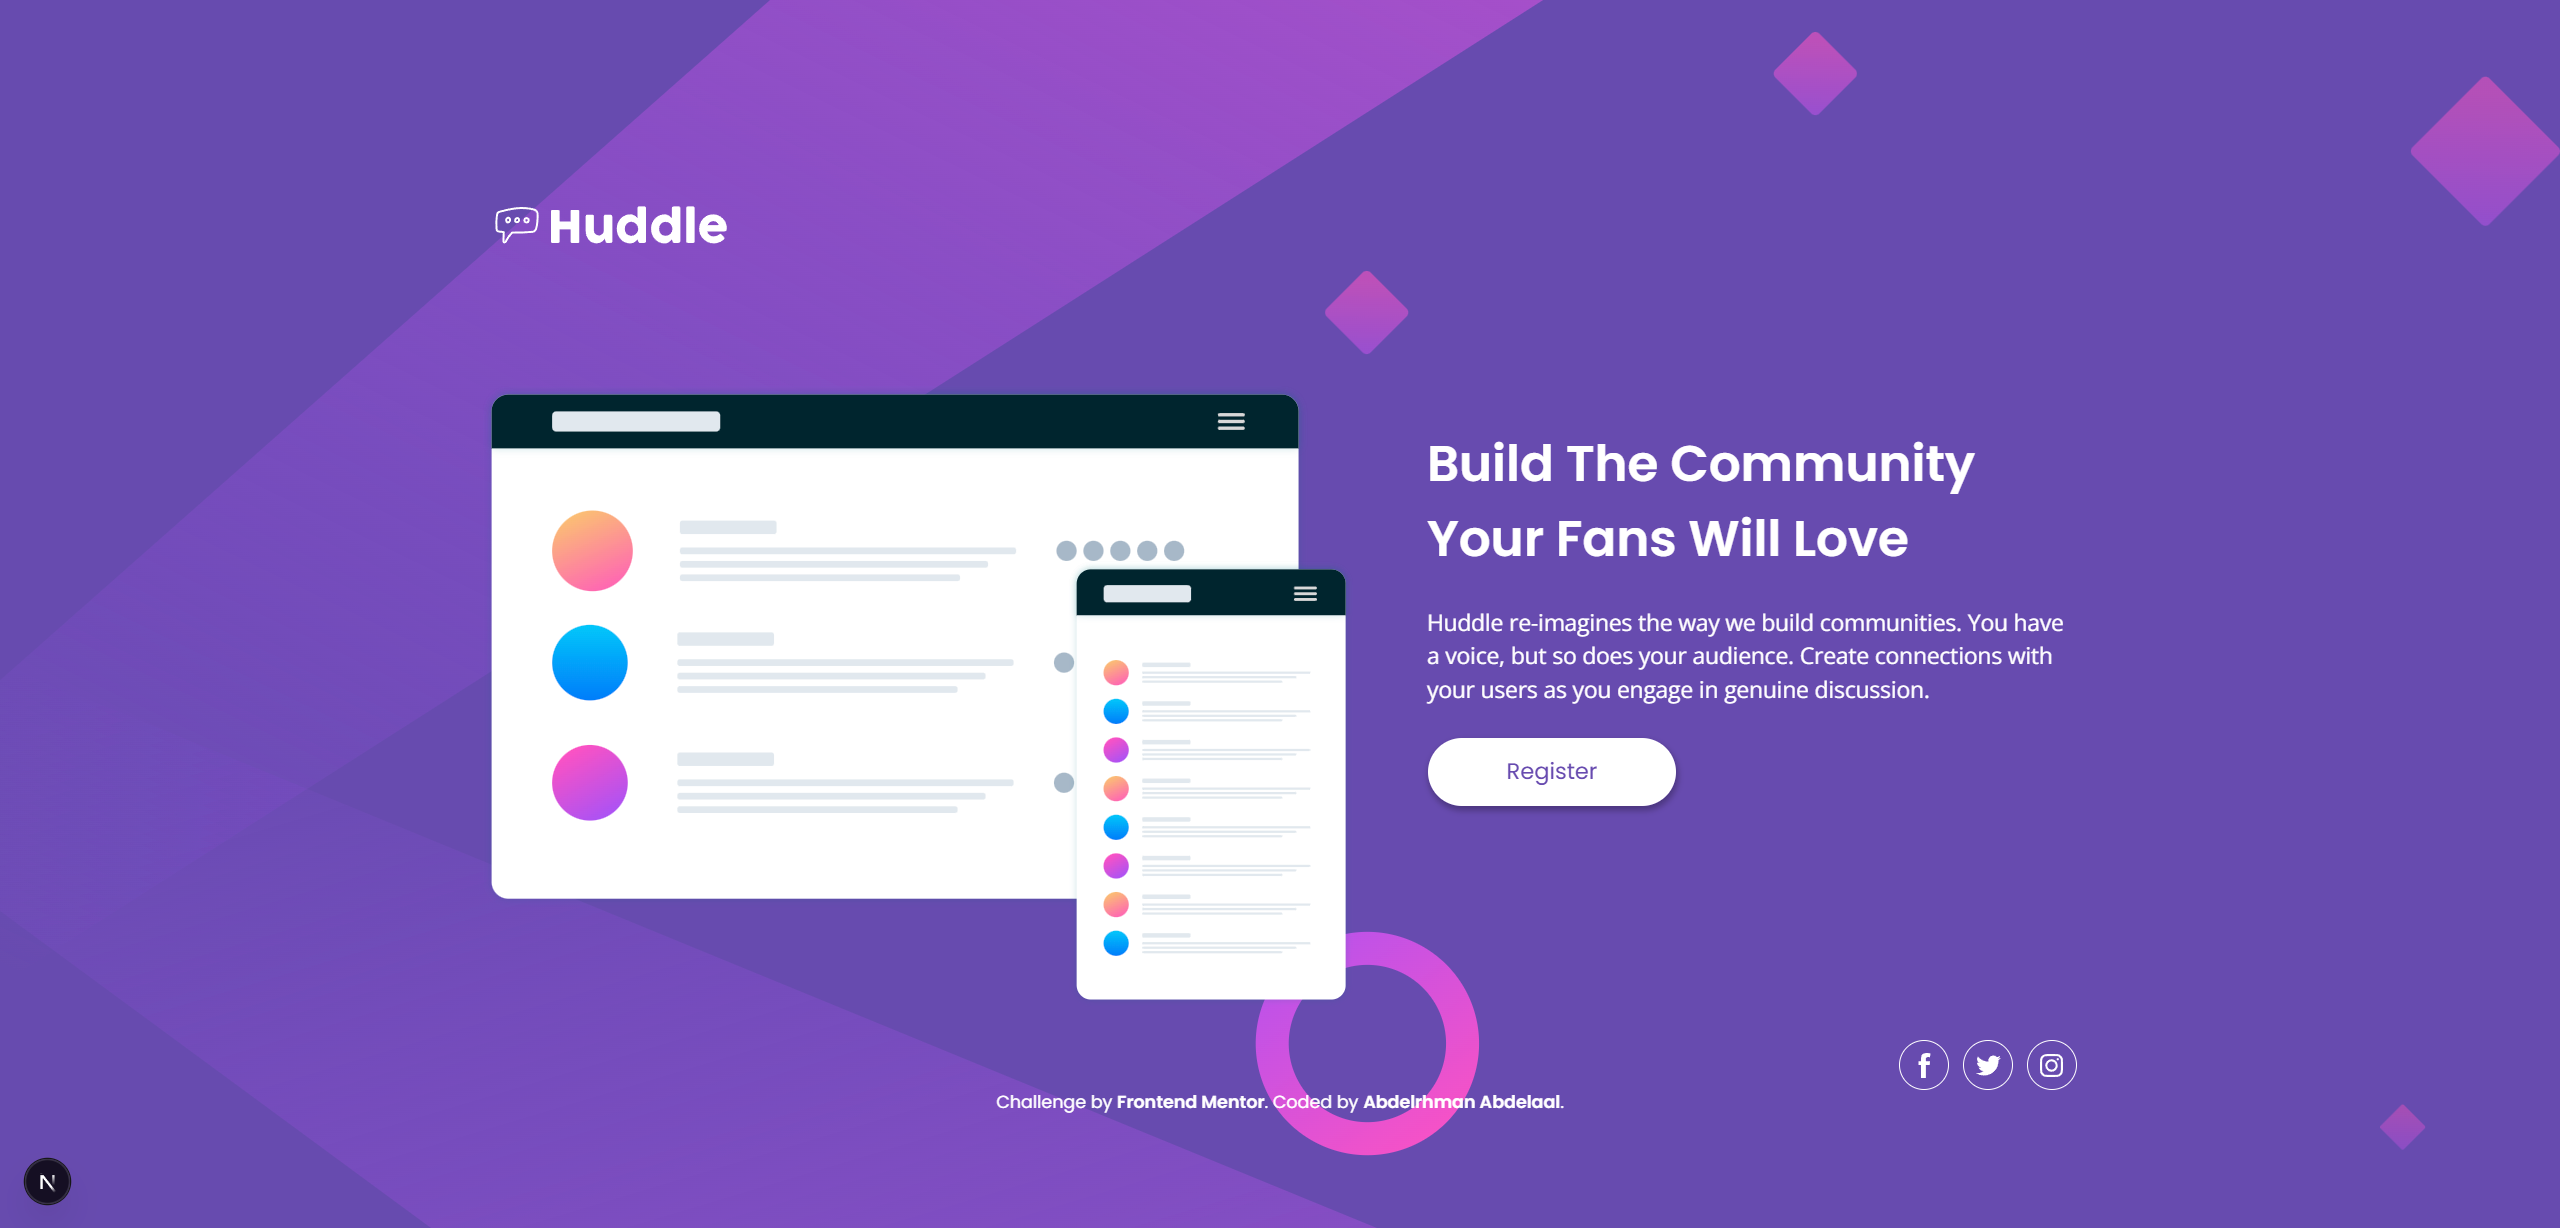
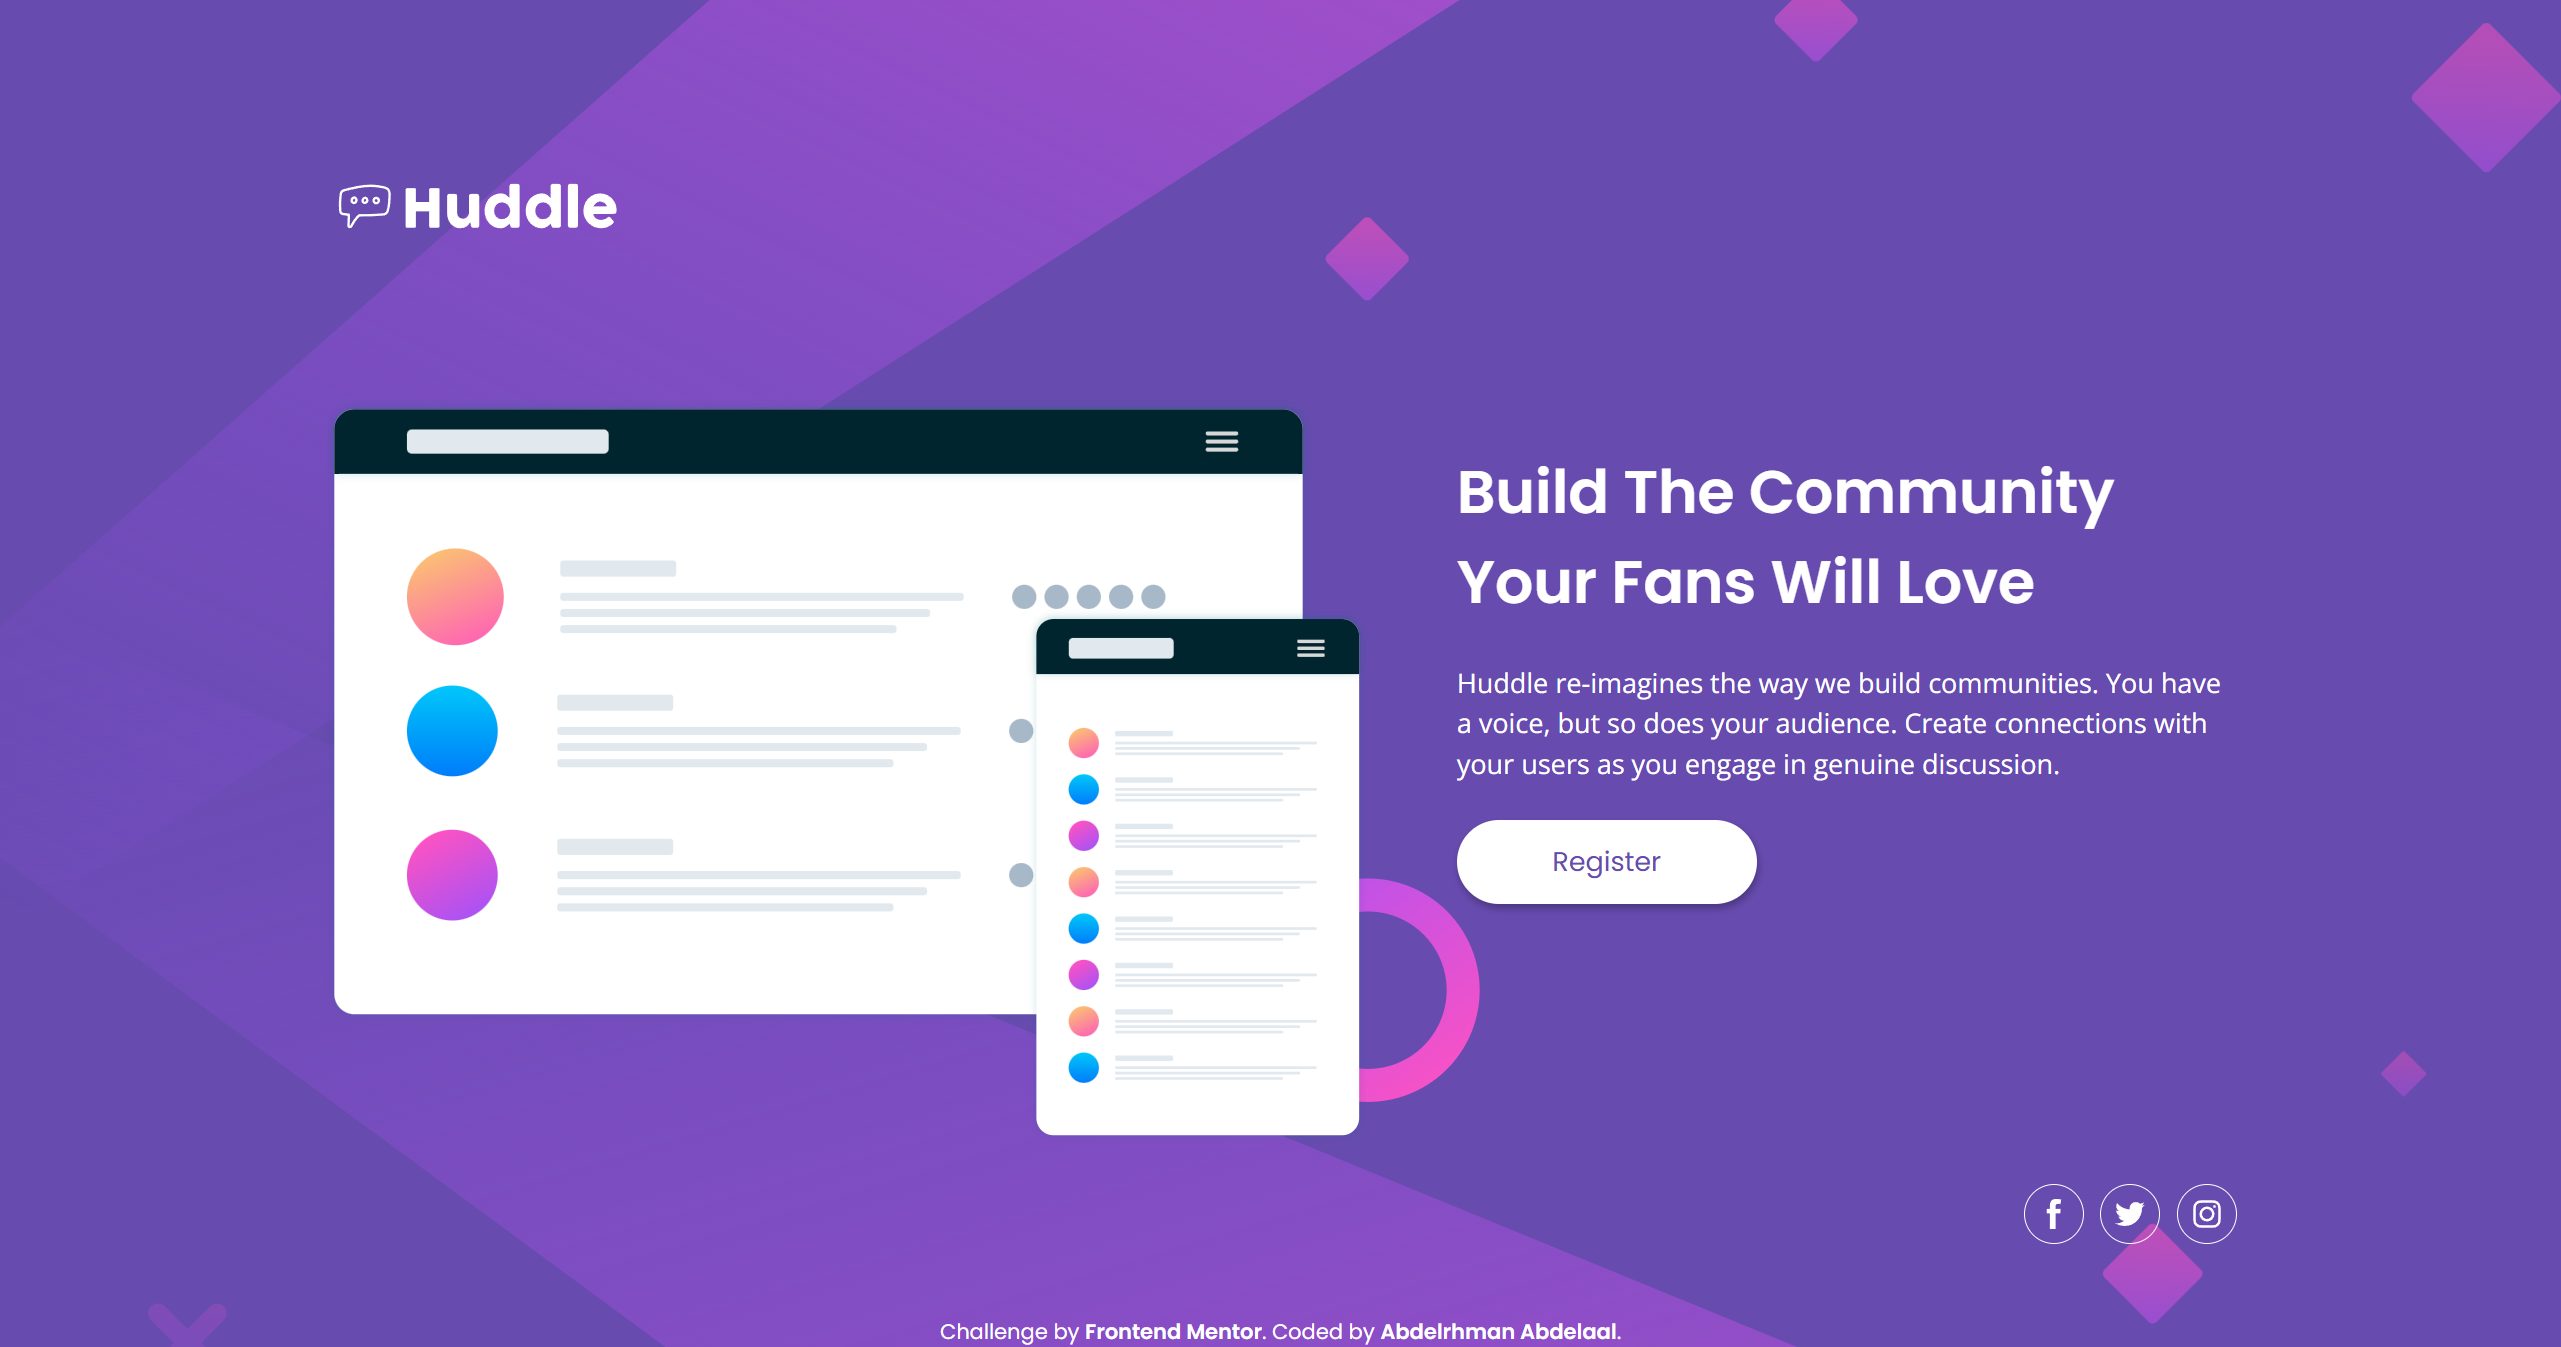
Update README and screenshot for live site URL change
- Updated the Live Site URL in README.md to reflect the new Netlify link.
- Modified the screenshot.png file to include the latest design changes.

diff --git a/README.md b/README.md
@@ -23,7 +23,7 @@ This is a solution to the [Huddle Landing Page with a Single Introductory Sectio
 ### Links
 
 - Solution URL: [GitHub](https://github.com/MrBlackvanta/huddle-landing-page-with-a-single-introductory-section)
-- Live Site URL: [Netlify](https://huddle-landing-page-with-a-single-introductory-section.netlify.app)
+- Live Site URL: [Netlify](https://vanta-huddle-landing-page.netlify.app)
 
 ## My process
 
